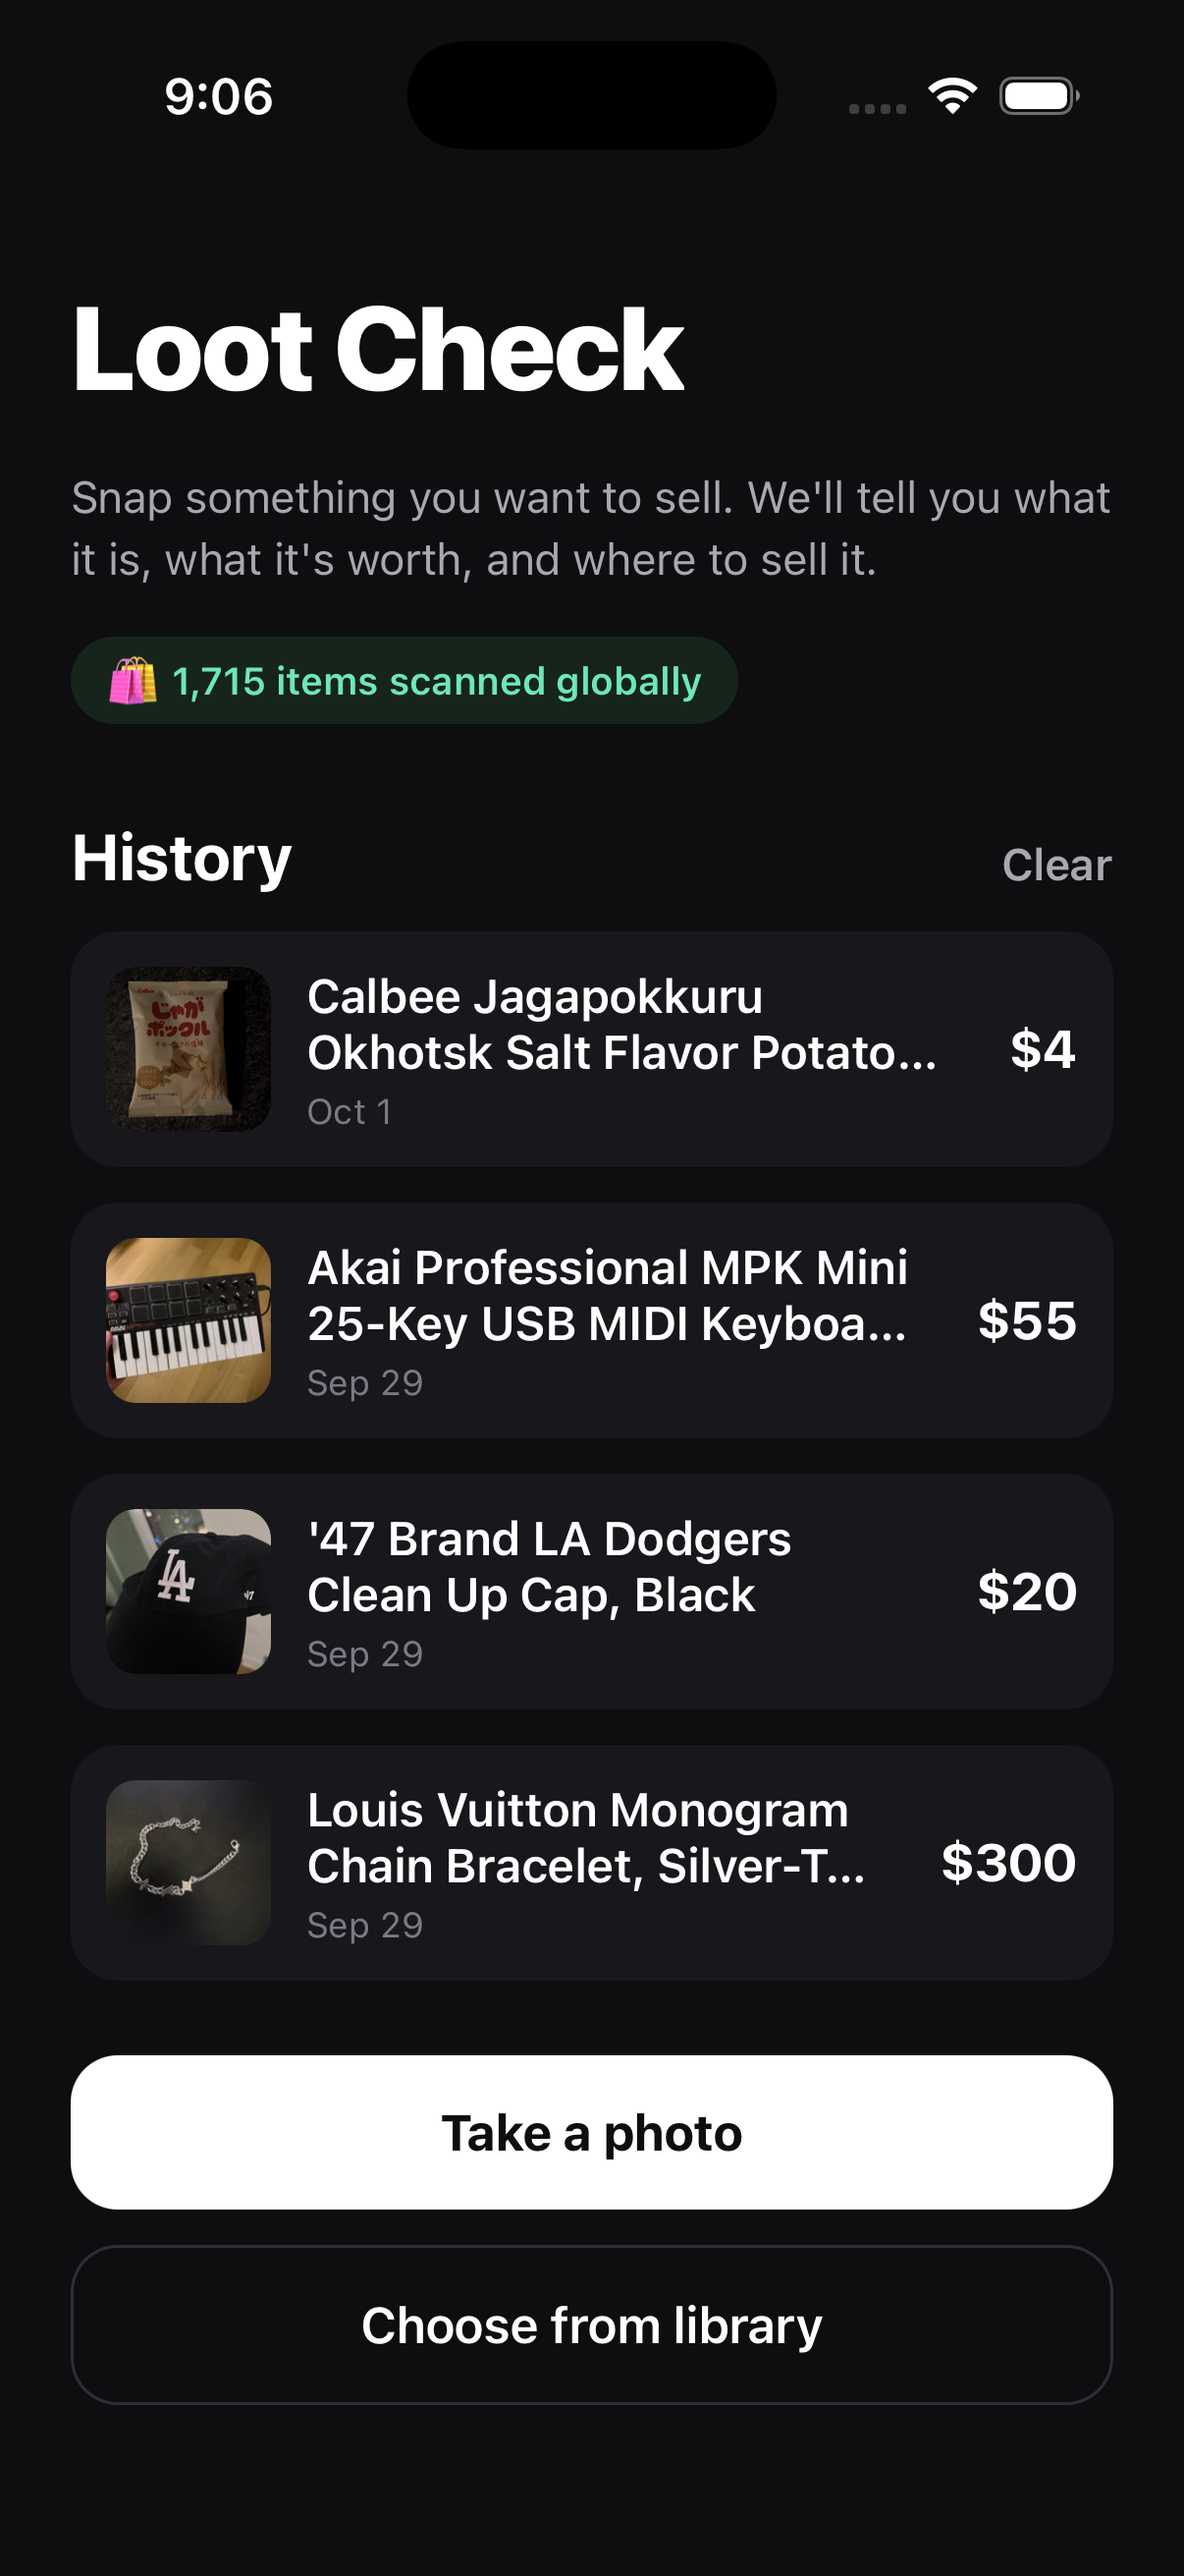
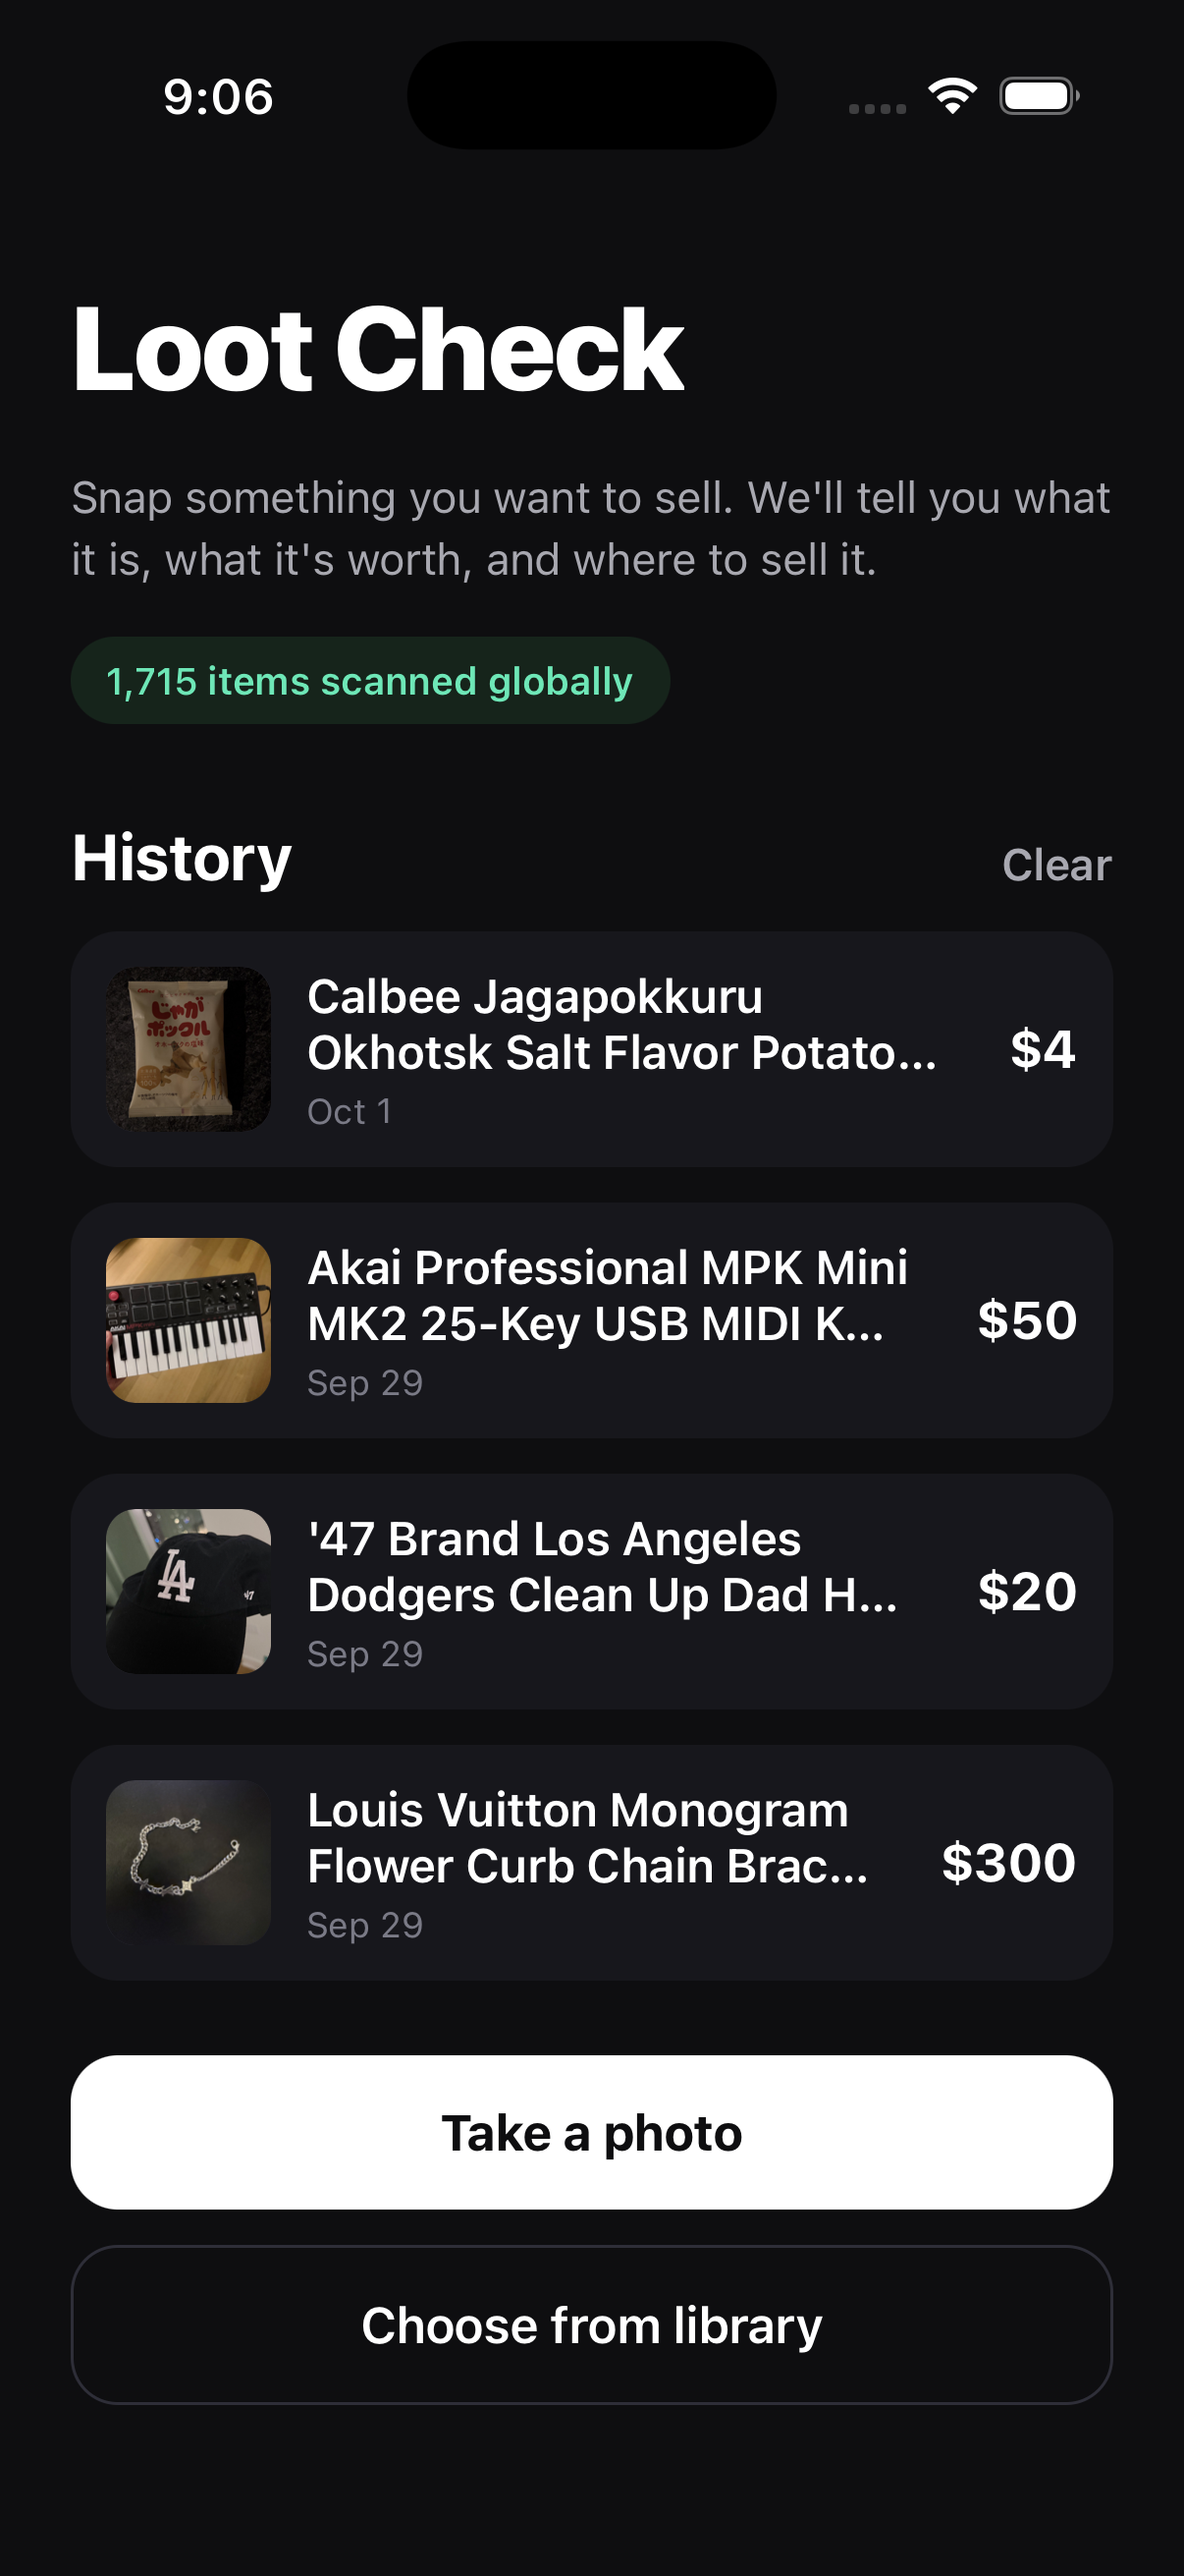
updated case study margin

diff --git a/src/data/case-studies.ts b/src/data/case-studies.ts
@@ -277,8 +277,8 @@ export const caseStudies: Record<string, CaseStudy> = {
 
        {
         type: "heading",
-        text: "UI Design",
-        note: "Interaction Flow",
+        text: "Current UI Design",
+        note: "Screen Flow",
       },
 
       {
@@ -696,7 +696,7 @@ export const caseStudies: Record<string, CaseStudy> = {
       {
         type: "heading",
         text: "Translation Region",
-        note: "Design Decisions",
+        note: "Features",
       },
 
       {
